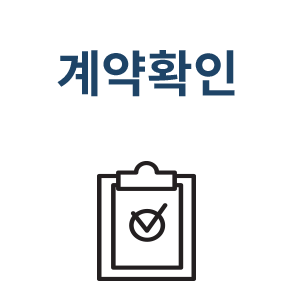
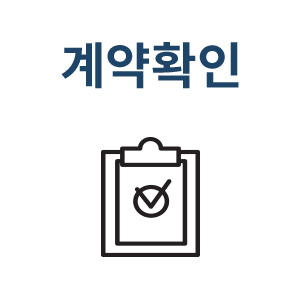
:art:design: Home 중앙네비버튼 이미지 변경 및 bottomRadius 제거

Changed region(s): [[0.3, 0.45, 0.69, 0.96], [0.18, 0.12, 0.81, 0.33]]

diff --git a/src/views/main/Home.tsx b/src/views/main/Home.tsx
@@ -197,7 +197,7 @@ const Home = ({navigation}: any) => {
                             height: 105,
                             resizeMode: 'contain',
                           }}
-                          source={require('../../assets/img/main/01.png')}
+                          source={require('../../assets/img/main/main_nav_01.png')}
                         />
                       </View>
                     </TouchableOpacity>
@@ -225,7 +225,7 @@ const Home = ({navigation}: any) => {
                             height: 105,
                             resizeMode: 'contain',
                           }}
-                          source={require('../../assets/img/main/03.png')}
+                          source={require('../../assets/img/main/main_nav_03.png')}
                         />
                       </View>
                     </TouchableOpacity>

diff --git a/src/assets/css/home/home.ts b/src/assets/css/home/home.ts
@@ -82,7 +82,6 @@ const mainStyles = StyleSheet.create({
     height: 200,
     backgroundColor: 'white',
     borderRadius: 20,
-    borderBottomRightRadius: 40,
     ...Platform.select({android: {elevation: 10}}),
   },
   MainNavigationBorder: {
